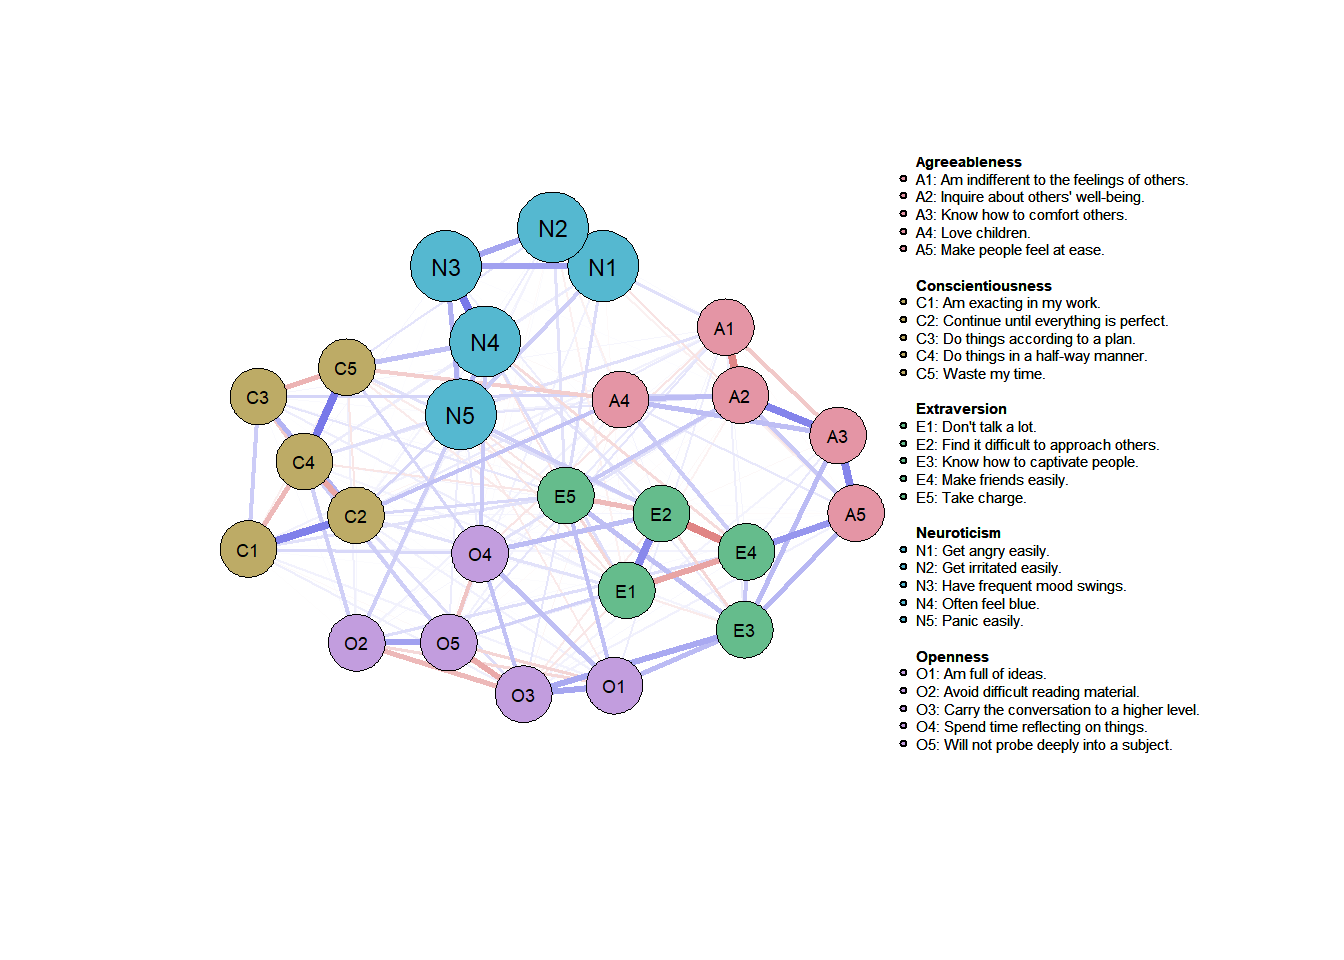
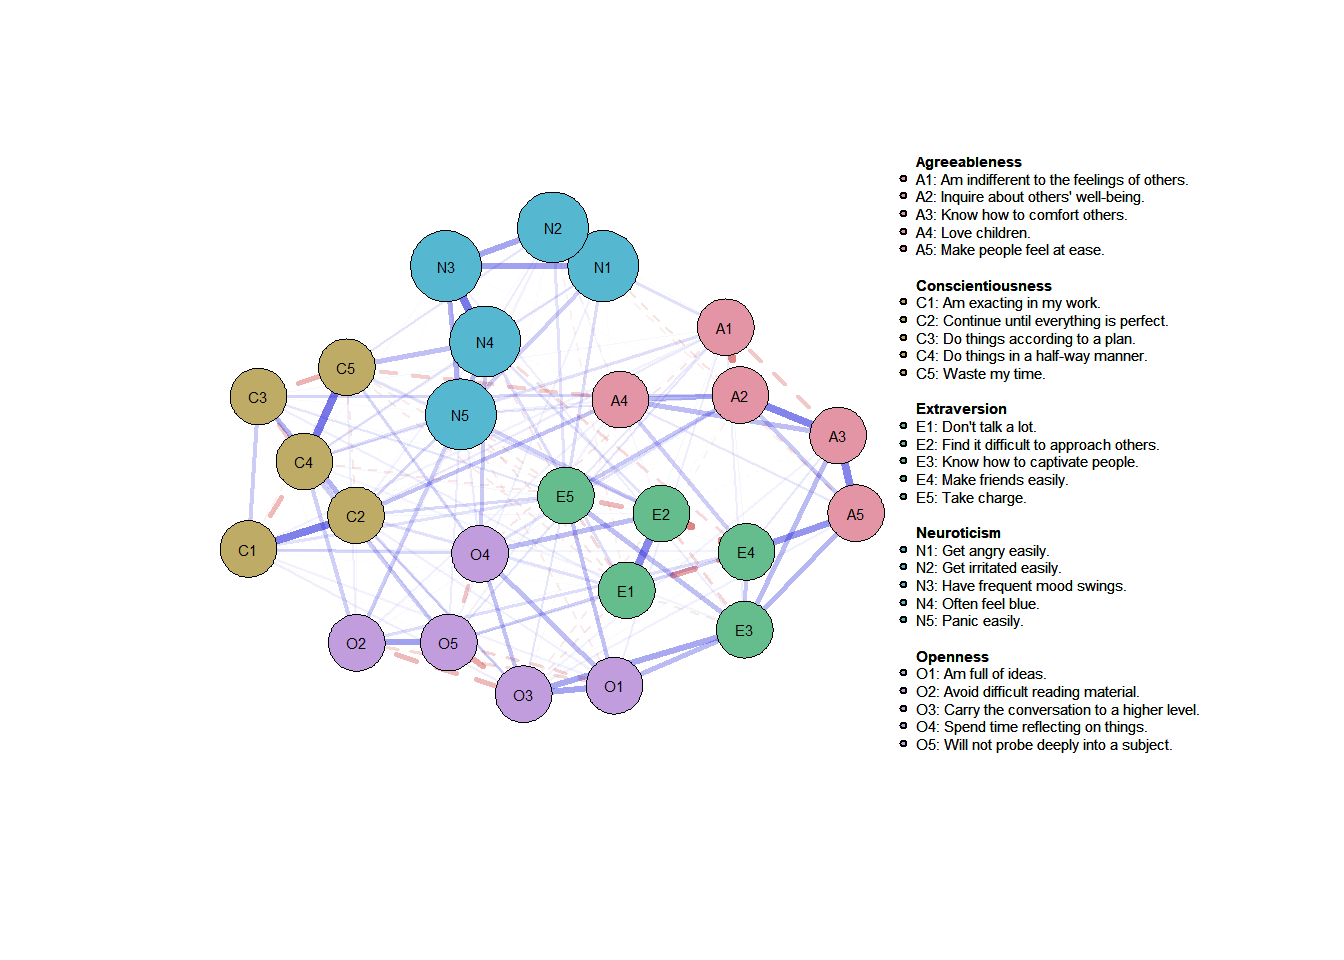
Created post until p. 34

diff --git a/content/blog/2021-08-21-qgraph-exhaustive/index.md b/content/blog/2021-08-21-qgraph-exhaustive/index.md
@@ -128,7 +128,7 @@ network <-
     bonf = F, # should a bonferroni correction be used if minimum = 'sig'?
     FDRcutoff = 0.9, # False-Discovery Rate cutoff if *threshold* = 'fdr'
     
-    #' *Output arguments* (p. 30-31)
+    #' *Output arguments* (pp. 30-31)
     
     #mar = c(3, 3, 3, 3), # margins' vector c(bottom, left, top, rigth)
     #' *filetype* = 'R', can also be 'pdf', 'svg', 'tex', 'jpg', 'tiff'
@@ -143,7 +143,7 @@ network <-
     
     #' *Graphical arguments*
     
-    # Nodes (p. 31-32)
+    # Nodes (pp. 31-32)
     
     #color = rainbow(length(groups)), # vector with a color for each node
     vsize = ifelse(colnames(df) == neuroticism, 7.5, 6),
@@ -177,14 +177,52 @@ network <-
     #' just before closing the device
     diag = F, # should diagonal also be plotted? Can also be 'col'
     
-    # Node labels (p. 32-33)
+    # Node labels (pp. 32-33)
     
-    nodeNames = items,
+    #labels = T, # should labels be plotted?
+    label.cex = 0.7, # scalar on label size
+    label.color = 'black', # string on label colors
+    label.prop = 0.9, # proportion of the width of the node that the label scales
+    label.norm = "OOO", # normalize width of label size in nodes
+    label.scale = T, # should labels be scaled to fit the node?
+    label.scale.equal = T, # should labels have same font size?
+    #' *label.font* = ..., # integer specifying the label font of nodes
+    #' *label.fill.vertical* = ..., scalar indicating max prop to fill a node
+    #' *label.fill.horizontal* = ..., scalar indicating max prop to fill a node
+    node.label.offset = c(0.5,0.5), # where should label be centered, (x, y)
+    node.label.position = NULL, # set specific positions of node labels
     
+    # Edges (pp. 33-34)
+    #' *esize* = ..., size of largest edge
+    #' *edge.width* = ..., size of largest edge
+    #' *edge.color* = ..., size of largest edge
+    # posCol = c("#009900", "darkgreen"), color of positive edges
+    negCol = c("#BF0000","red"), # color of negative edges
+    unCol = "#808080", # default edge color of unweighted graphs
+    probCol = "blue", # color of probability nodes
+    negDashed = T, # should negative edges be dashed?
+    probabilityEdges = F, # do edges indicate probabilities?
+    colFactor = 1, # exponentially transforms color int. of relative strength 1
+    trans = T, # should edges fade to white?
+    fade = T, # should edges fade?
+    loopRotation = NA, # vector for each node assigning rotation in radians
+    loop = 1, # if diag = T, scales the size of the loop
+    lty = 1, # line type, see 'par'
+    #' *edgeConnectPoints* = ..., specifies the point for each edge to which it 
+    #' connects to a node, in radians
+    
+    # Edge curvature (pp. 34-35)
+    #' ...
+    #' ...
+    #' ...
     
     # Legend
-    legend.cex = 0.23
+    legend.cex = 0.23,
+    nodeNames = items
     
+    #' ...
+    #' ...
+    #' ...
   )
 ```
 
